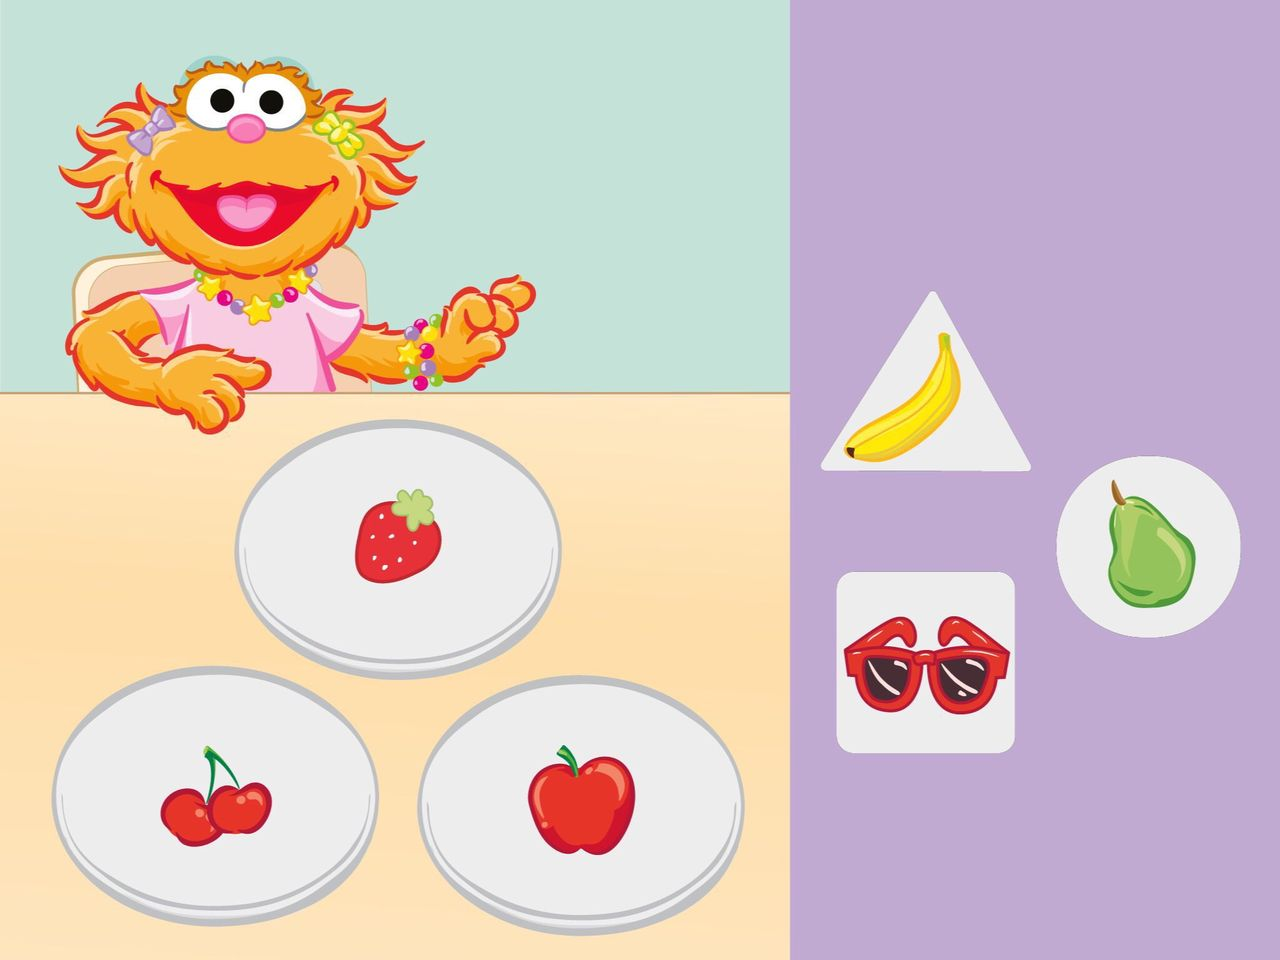
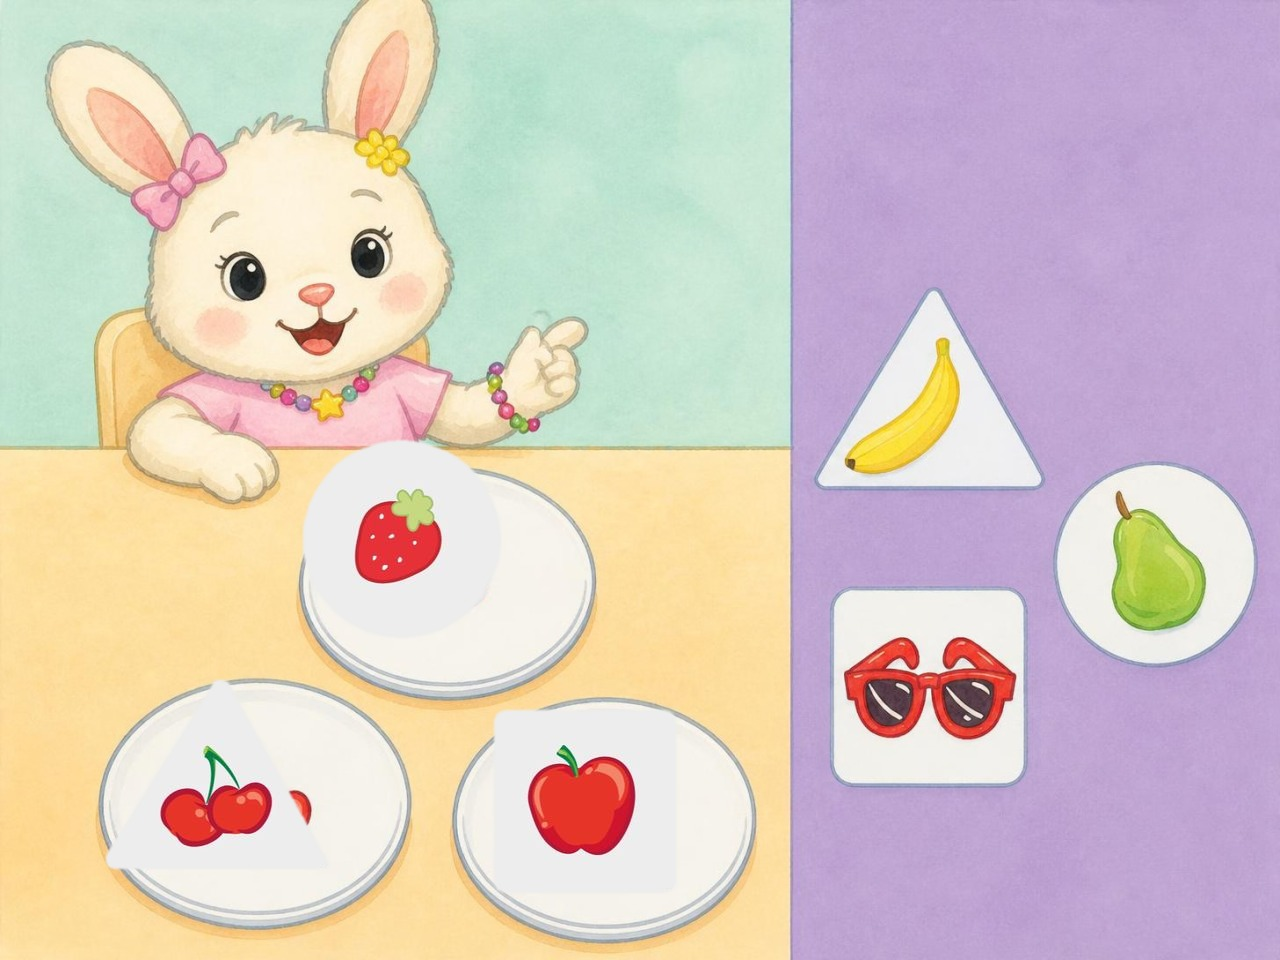
Sesame Street characters replaced in 'דרכים נוספות למיין' (6 slides)

diff --git a/games/g4l5d/index.html b/games/g4l5d/index.html
@@ -157,7 +157,7 @@ body.framed #app .top .brand{display:none}
 </script>
 <script>
 /*CFGLINE*/
-const CFG = {"slides": [{"i": 0, "t": "R", "img": "img/s0.jpg?b=4", "acts": [{"intro": "aud/photo1__activity0__activity0.mp3", "advance": true, "idle": null, "shapes": []}], "layers": [{"t": "bg", "src": "lay/s0_0.jpg?b=4", "w": 2048, "h": 1536, "m": [1, 0, 0, 1, 0, 0], "show": 0, "tog": false}]}, {"i": 1, "t": "A", "img": "img/s1.jpg?b=4", "acts": [{"intro": "aud/photo2__activity0__activity0.mp3", "advance": false, "idle": null, "shapes": [{"d": "M 927.3 610.7 C 927.3 656.5 871.7 693.7 803.0 693.7 C 734.3 693.7 678.7 656.5 678.7 610.7 C 678.7 564.8 734.3 527.7 803.0 527.7 C 871.7 527.7 927.3 564.8 927.3 610.7 Z", "bb": [679, 528, 927, 694], "r1": null, "r2": null, "ans": [], "link": null, "tx": 0, "ty": 0, "idle": null}, {"d": "M 617.2 185.4 C 617.2 231.3 561.5 268.5 492.9 268.5 C 424.2 268.5 368.5 231.3 368.5 185.4 C 368.5 139.6 424.2 102.4 492.9 102.4 C 561.5 102.4 617.2 139.6 617.2 185.4 Z", "bb": [369, 102, 617, 268], "r1": null, "r2": null, "ans": [], "link": null, "tx": 0, "ty": 0, "idle": null}, {"d": "M 612.7 615.6 C 612.7 661.4 557.0 698.6 488.4 698.6 C 419.7 698.6 364.0 661.4 364.0 615.6 C 364.0 569.7 419.7 532.5 488.4 532.5 C 557.0 532.5 612.7 569.7 612.7 615.6 Z", "bb": [364, 533, 613, 699], "r1": null, "r2": null, "ans": [], "link": null, "tx": 0, "ty": 0, "idle": null}]}]}, {"i": 2, "t": "A", "img": "img/s2.jpg?b=4", "acts": [{"intro": "aud/photo3__activity0__activity0.mp3", "advance": false, "idle": null, "shapes": [{"d": "M 643.8 334.8 C 643.8 411.5 604.7 473.7 556.4 473.7 C 508.2 473.7 469.1 411.5 469.1 334.8 C 469.1 258.1 508.2 196.0 556.4 196.0 C 604.7 196.0 643.8 258.1 643.8 334.8 Z", "bb": [469, 196, 644, 474], "r1": null, "r2": null, "ans": [], "link": null, "tx": 0, "ty": 0, "idle": null}, {"d": "M 242.9 231.4 C 242.9 312.3 203.8 377.9 155.6 377.9 C 107.3 377.9 68.2 312.3 68.2 231.4 C 68.2 150.5 107.3 84.9 155.6 84.9 C 203.8 84.9 242.9 150.5 242.9 231.4 Z", "bb": [68, 85, 243, 378], "r1": null, "r2": null, "ans": [], "link": null, "tx": 0, "ty": 0, "idle": null}, {"d": "M 432.6 502.8 C 432.6 579.5 393.5 641.7 345.3 641.7 C 297.1 641.7 258.0 579.5 258.0 502.8 C 258.0 426.1 297.1 364.0 345.3 364.0 C 393.5 364.0 432.6 426.1 432.6 502.8 Z", "bb": [258, 364, 433, 642], "r1": null, "r2": null, "ans": [], "link": null, "tx": 0, "ty": 0, "idle": null}]}]}, {"i": 3, "t": "A", "img": "img/s3.jpg?b=4", "acts": [{"intro": "aud/photo4__activity0__activity0.mp3", "advance": false, "idle": null, "shapes": [{"d": "M 988.8 601.8 C 988.8 673.4 907.6 731.4 807.5 731.4 C 707.4 731.4 626.2 673.4 626.2 601.8 C 626.2 530.2 707.4 472.1 807.5 472.1 C 907.6 472.1 988.8 530.2 988.8 601.8 Z", "bb": [626, 472, 989, 731], "r1": null, "r2": null, "ans": [], "link": null, "tx": 0, "ty": 0, "idle": null}, {"d": "M 967.4 219.4 L 967.4 392.3 C 967.4 396.2 964.2 399.3 960.4 399.3 L 672.6 399.3 C 668.8 399.3 665.6 396.2 665.6 392.3 L 665.6 46.5 C 665.6 42.6 668.8 39.5 672.6 39.5 L 960.4 39.5 C 964.2 39.5 967.4 42.6 967.4 46.5 Z", "bb": [666, 39, 967, 399], "r1": null, "r2": null, "ans": [], "link": null, "tx": 0, "ty": 0, "idle": null}, {"d": "M 397.9 224.4 C 397.9 323.9 315.7 404.5 214.2 404.5 C 112.8 404.5 30.6 323.9 30.6 224.4 C 30.6 125.0 112.8 44.3 214.2 44.3 C 315.7 44.3 397.9 125.0 397.9 224.4 Z", "bb": [31, 44, 398, 405], "r1": null, "r2": null, "ans": [], "link": null, "tx": 0, "ty": 0, "idle": null}]}]}, {"i": 4, "t": "P", "img": "img/s4.jpg?b=4", "acts": [{"intro": "aud/photo5__activity0__activity0.mp3", "advance": false, "idle": null, "shapes": [{"d": "M 396.4 431.0 C 396.4 472.7 362.6 506.5 320.9 506.5 C 279.2 506.5 245.4 472.7 245.4 431.0 C 245.4 389.3 279.2 355.5 320.9 355.5 C 362.6 355.5 396.4 389.3 396.4 431.0 Z", "bb": [245, 356, 396, 507], "r1": null, "r2": null, "ans": [], "link": null, "tx": 422.4, "ty": -312.6, "idle": null}, {"d": "M 537.1 640.7 L 537.1 703.2 C 537.1 707.1 534.0 710.2 530.1 710.2 L 405.0 710.2 C 401.1 710.2 398.0 707.1 398.0 703.2 L 398.0 578.2 C 398.0 574.3 401.1 571.2 405.0 571.2 L 530.1 571.2 C 534.0 571.2 537.1 574.3 537.1 578.2 Z", "bb": [398, 571, 537, 710], "r1": null, "r2": null, "ans": [], "link": null, "tx": 446.5, "ty": -408, "idle": null}, {"d": "M 259.6 691.1 L 179.7 548.9 C 178.6 547.0 176.2 546.3 174.2 547.4 C 173.7 547.7 173.2 548.2 172.8 548.8 L 88.3 685.0 C 87.1 686.9 87.7 689.4 89.6 690.5 C 90.2 690.9 90.9 691.1 91.7 691.1 L 252.8 691.1 C 255.0 691.1 256.8 689.3 256.8 687.1 C 256.8 686.4 256.6 685.8 256.3 685.2 Z", "bb": [87, 546, 260, 691], "r1": null, "r2": null, "ans": [], "link": null, "tx": 728.2, "ty": 20.6, "idle": null}]}]}, {"i": 5, "t": "A", "img": "img/s5.jpg?b=4", "acts": [{"intro": "aud/photo6__activity0__activity0.mp3", "advance": false, "idle": null, "shapes": [{"d": "M 356.5 213.9 C 356.5 288.7 295.8 349.4 221.0 349.4 C 146.2 349.4 85.5 288.7 85.5 213.9 C 85.5 139.0 146.2 78.4 221.0 78.4 C 295.8 78.4 356.5 139.0 356.5 213.9 Z", "bb": [85, 78, 356, 349], "r1": null, "r2": null, "ans": [], "link": null, "tx": 0, "ty": 0, "idle": null}, {"d": "M 798.8 205.6 C 798.8 258.4 756.1 301.1 703.3 301.1 C 650.6 301.1 607.8 258.4 607.8 205.6 C 607.8 152.9 650.6 110.1 703.3 110.1 C 756.1 110.1 798.8 152.9 798.8 205.6 Z", "bb": [608, 110, 799, 301], "r1": null, "r2": null, "ans": [], "link": null, "tx": 0, "ty": 0, "idle": null}, {"d": "M 648.7 561.3 C 648.7 625.1 596.9 676.8 533.2 676.8 C 469.4 676.8 417.7 625.1 417.7 561.3 C 417.7 497.5 469.4 445.8 533.2 445.8 C 596.9 445.8 648.7 497.5 648.7 561.3 Z", "bb": [418, 446, 649, 677], "r1": null, "r2": null, "ans": [], "link": null, "tx": 0, "ty": 0, "idle": null}]}]}, {"i": 6, "t": "P", "img": "img/s6.jpg?b=4", "acts": [{"intro": "aud/photo7__activity0__activity0.mp3", "advance": false, "idle": null, "shapes": [{"d": "M 561.0 382.3 C 561.0 424.0 527.2 457.8 485.5 457.8 C 443.8 457.8 410.0 424.0 410.0 382.3 C 410.0 340.6 443.8 306.8 485.5 306.8 C 527.2 306.8 561.0 340.6 561.0 382.3 Z", "bb": [410, 307, 561, 458], "r1": null, "r2": null, "ans": [], "link": null, "tx": 429.4, "ty": -284.9, "idle": null}, {"d": "M 555.1 572.1 L 555.1 634.6 C 555.1 638.5 552.0 641.6 548.1 641.6 L 423.0 641.6 C 419.1 641.6 416.0 638.5 416.0 634.6 L 416.0 509.5 C 416.0 505.7 419.1 502.5 423.0 502.5 L 548.1 502.5 C 552.0 502.5 555.1 505.7 555.1 509.5 Z", "bb": [416, 503, 555, 642], "r1": null, "r2": null, "ans": [], "link": null, "tx": 253.4, "ty": -310.8, "idle": null}, {"d": "M 402.1 268.1 L 564.3 268.1 C 566.6 268.1 568.3 266.3 568.3 264.1 C 568.3 263.4 568.2 262.7 567.8 262.1 L 490.0 126.4 C 488.9 124.5 486.4 123.9 484.5 125.0 C 483.9 125.3 483.4 125.8 483.0 126.4 L 405.5 262.1 C 404.4 264.1 405.1 266.5 407.0 267.6 C 407.6 267.9 408.3 268.1 409.0 268.1 Z", "bb": [402, 124, 568, 268], "r1": null, "r2": null, "ans": [], "link": null, "tx": 264.3, "ty": 463.6, "idle": null}]}]}, {"i": 7, "t": "R", "img": "img/s7.jpg?b=4", "acts": [{"intro": "aud/photo8__activity0__activity0.mp3", "advance": true, "idle": null, "shapes": []}], "layers": [{"t": "bg", "src": "lay/s7_0.jpg?b=4", "w": 2048, "h": 1536, "m": [1, 0, 0, 1, 0, 0], "show": 0, "tog": false}]}], "title": "דרכים נוספות למיין", "hash": "g4l5d", "brand": "חן קלימיאן", "writeBase": "../../letters/"};
+const CFG = {"slides": [{"i": 0, "t": "R", "img": "img/s0.jpg?b=4", "acts": [{"intro": "aud/photo1__activity0__activity0.mp3", "advance": true, "idle": null, "shapes": []}], "layers": [{"t": "bg", "src": "lay/s0_0.jpg?b=4", "w": 2048, "h": 1536, "m": [1, 0, 0, 1, 0, 0], "show": 0, "tog": false}]}, {"i": 1, "t": "A", "img": "img/s1.jpg?b=5", "acts": [{"intro": "aud/photo2__activity0__activity0.mp3", "advance": false, "idle": null, "shapes": [{"d": "M 927.3 610.7 C 927.3 656.5 871.7 693.7 803.0 693.7 C 734.3 693.7 678.7 656.5 678.7 610.7 C 678.7 564.8 734.3 527.7 803.0 527.7 C 871.7 527.7 927.3 564.8 927.3 610.7 Z", "bb": [679, 528, 927, 694], "r1": null, "r2": null, "ans": [], "link": null, "tx": 0, "ty": 0, "idle": null}, {"d": "M 617.2 185.4 C 617.2 231.3 561.5 268.5 492.9 268.5 C 424.2 268.5 368.5 231.3 368.5 185.4 C 368.5 139.6 424.2 102.4 492.9 102.4 C 561.5 102.4 617.2 139.6 617.2 185.4 Z", "bb": [369, 102, 617, 268], "r1": null, "r2": null, "ans": [], "link": null, "tx": 0, "ty": 0, "idle": null}, {"d": "M 612.7 615.6 C 612.7 661.4 557.0 698.6 488.4 698.6 C 419.7 698.6 364.0 661.4 364.0 615.6 C 364.0 569.7 419.7 532.5 488.4 532.5 C 557.0 532.5 612.7 569.7 612.7 615.6 Z", "bb": [364, 533, 613, 699], "r1": null, "r2": null, "ans": [], "link": null, "tx": 0, "ty": 0, "idle": null}]}]}, {"i": 2, "t": "A", "img": "img/s2.jpg?b=5", "acts": [{"intro": "aud/photo3__activity0__activity0.mp3", "advance": false, "idle": null, "shapes": [{"d": "M 643.8 334.8 C 643.8 411.5 604.7 473.7 556.4 473.7 C 508.2 473.7 469.1 411.5 469.1 334.8 C 469.1 258.1 508.2 196.0 556.4 196.0 C 604.7 196.0 643.8 258.1 643.8 334.8 Z", "bb": [469, 196, 644, 474], "r1": null, "r2": null, "ans": [], "link": null, "tx": 0, "ty": 0, "idle": null}, {"d": "M 242.9 231.4 C 242.9 312.3 203.8 377.9 155.6 377.9 C 107.3 377.9 68.2 312.3 68.2 231.4 C 68.2 150.5 107.3 84.9 155.6 84.9 C 203.8 84.9 242.9 150.5 242.9 231.4 Z", "bb": [68, 85, 243, 378], "r1": null, "r2": null, "ans": [], "link": null, "tx": 0, "ty": 0, "idle": null}, {"d": "M 432.6 502.8 C 432.6 579.5 393.5 641.7 345.3 641.7 C 297.1 641.7 258.0 579.5 258.0 502.8 C 258.0 426.1 297.1 364.0 345.3 364.0 C 393.5 364.0 432.6 426.1 432.6 502.8 Z", "bb": [258, 364, 433, 642], "r1": null, "r2": null, "ans": [], "link": null, "tx": 0, "ty": 0, "idle": null}]}]}, {"i": 3, "t": "A", "img": "img/s3.jpg?b=5", "acts": [{"intro": "aud/photo4__activity0__activity0.mp3", "advance": false, "idle": null, "shapes": [{"d": "M 988.8 601.8 C 988.8 673.4 907.6 731.4 807.5 731.4 C 707.4 731.4 626.2 673.4 626.2 601.8 C 626.2 530.2 707.4 472.1 807.5 472.1 C 907.6 472.1 988.8 530.2 988.8 601.8 Z", "bb": [626, 472, 989, 731], "r1": null, "r2": null, "ans": [], "link": null, "tx": 0, "ty": 0, "idle": null}, {"d": "M 967.4 219.4 L 967.4 392.3 C 967.4 396.2 964.2 399.3 960.4 399.3 L 672.6 399.3 C 668.8 399.3 665.6 396.2 665.6 392.3 L 665.6 46.5 C 665.6 42.6 668.8 39.5 672.6 39.5 L 960.4 39.5 C 964.2 39.5 967.4 42.6 967.4 46.5 Z", "bb": [666, 39, 967, 399], "r1": null, "r2": null, "ans": [], "link": null, "tx": 0, "ty": 0, "idle": null}, {"d": "M 397.9 224.4 C 397.9 323.9 315.7 404.5 214.2 404.5 C 112.8 404.5 30.6 323.9 30.6 224.4 C 30.6 125.0 112.8 44.3 214.2 44.3 C 315.7 44.3 397.9 125.0 397.9 224.4 Z", "bb": [31, 44, 398, 405], "r1": null, "r2": null, "ans": [], "link": null, "tx": 0, "ty": 0, "idle": null}]}]}, {"i": 4, "t": "P", "img": "img/s4.jpg?b=5", "acts": [{"intro": "aud/photo5__activity0__activity0.mp3", "advance": false, "idle": null, "shapes": [{"d": "M 396.4 431.0 C 396.4 472.7 362.6 506.5 320.9 506.5 C 279.2 506.5 245.4 472.7 245.4 431.0 C 245.4 389.3 279.2 355.5 320.9 355.5 C 362.6 355.5 396.4 389.3 396.4 431.0 Z", "bb": [245, 356, 396, 507], "r1": null, "r2": null, "ans": [], "link": null, "tx": 422.4, "ty": -312.6, "idle": null}, {"d": "M 537.1 640.7 L 537.1 703.2 C 537.1 707.1 534.0 710.2 530.1 710.2 L 405.0 710.2 C 401.1 710.2 398.0 707.1 398.0 703.2 L 398.0 578.2 C 398.0 574.3 401.1 571.2 405.0 571.2 L 530.1 571.2 C 534.0 571.2 537.1 574.3 537.1 578.2 Z", "bb": [398, 571, 537, 710], "r1": null, "r2": null, "ans": [], "link": null, "tx": 446.5, "ty": -408, "idle": null}, {"d": "M 259.6 691.1 L 179.7 548.9 C 178.6 547.0 176.2 546.3 174.2 547.4 C 173.7 547.7 173.2 548.2 172.8 548.8 L 88.3 685.0 C 87.1 686.9 87.7 689.4 89.6 690.5 C 90.2 690.9 90.9 691.1 91.7 691.1 L 252.8 691.1 C 255.0 691.1 256.8 689.3 256.8 687.1 C 256.8 686.4 256.6 685.8 256.3 685.2 Z", "bb": [87, 546, 260, 691], "r1": null, "r2": null, "ans": [], "link": null, "tx": 728.2, "ty": 20.6, "idle": null}]}]}, {"i": 5, "t": "A", "img": "img/s5.jpg?b=5", "acts": [{"intro": "aud/photo6__activity0__activity0.mp3", "advance": false, "idle": null, "shapes": [{"d": "M 356.5 213.9 C 356.5 288.7 295.8 349.4 221.0 349.4 C 146.2 349.4 85.5 288.7 85.5 213.9 C 85.5 139.0 146.2 78.4 221.0 78.4 C 295.8 78.4 356.5 139.0 356.5 213.9 Z", "bb": [85, 78, 356, 349], "r1": null, "r2": null, "ans": [], "link": null, "tx": 0, "ty": 0, "idle": null}, {"d": "M 798.8 205.6 C 798.8 258.4 756.1 301.1 703.3 301.1 C 650.6 301.1 607.8 258.4 607.8 205.6 C 607.8 152.9 650.6 110.1 703.3 110.1 C 756.1 110.1 798.8 152.9 798.8 205.6 Z", "bb": [608, 110, 799, 301], "r1": null, "r2": null, "ans": [], "link": null, "tx": 0, "ty": 0, "idle": null}, {"d": "M 648.7 561.3 C 648.7 625.1 596.9 676.8 533.2 676.8 C 469.4 676.8 417.7 625.1 417.7 561.3 C 417.7 497.5 469.4 445.8 533.2 445.8 C 596.9 445.8 648.7 497.5 648.7 561.3 Z", "bb": [418, 446, 649, 677], "r1": null, "r2": null, "ans": [], "link": null, "tx": 0, "ty": 0, "idle": null}]}]}, {"i": 6, "t": "P", "img": "img/s6.jpg?b=5", "acts": [{"intro": "aud/photo7__activity0__activity0.mp3", "advance": false, "idle": null, "shapes": [{"d": "M 561.0 382.3 C 561.0 424.0 527.2 457.8 485.5 457.8 C 443.8 457.8 410.0 424.0 410.0 382.3 C 410.0 340.6 443.8 306.8 485.5 306.8 C 527.2 306.8 561.0 340.6 561.0 382.3 Z", "bb": [410, 307, 561, 458], "r1": null, "r2": null, "ans": [], "link": null, "tx": 429.4, "ty": -284.9, "idle": null}, {"d": "M 555.1 572.1 L 555.1 634.6 C 555.1 638.5 552.0 641.6 548.1 641.6 L 423.0 641.6 C 419.1 641.6 416.0 638.5 416.0 634.6 L 416.0 509.5 C 416.0 505.7 419.1 502.5 423.0 502.5 L 548.1 502.5 C 552.0 502.5 555.1 505.7 555.1 509.5 Z", "bb": [416, 503, 555, 642], "r1": null, "r2": null, "ans": [], "link": null, "tx": 253.4, "ty": -310.8, "idle": null}, {"d": "M 402.1 268.1 L 564.3 268.1 C 566.6 268.1 568.3 266.3 568.3 264.1 C 568.3 263.4 568.2 262.7 567.8 262.1 L 490.0 126.4 C 488.9 124.5 486.4 123.9 484.5 125.0 C 483.9 125.3 483.4 125.8 483.0 126.4 L 405.5 262.1 C 404.4 264.1 405.1 266.5 407.0 267.6 C 407.6 267.9 408.3 268.1 409.0 268.1 Z", "bb": [402, 124, 568, 268], "r1": null, "r2": null, "ans": [], "link": null, "tx": 264.3, "ty": 463.6, "idle": null}]}]}, {"i": 7, "t": "R", "img": "img/s7.jpg?b=4", "acts": [{"intro": "aud/photo8__activity0__activity0.mp3", "advance": true, "idle": null, "shapes": []}], "layers": [{"t": "bg", "src": "lay/s7_0.jpg?b=4", "w": 2048, "h": 1536, "m": [1, 0, 0, 1, 0, 0], "show": 0, "tog": false}]}], "title": "דרכים נוספות למיין", "hash": "g4l5d", "brand": "חן קלימיאן", "writeBase": "../../letters/"};
 const SL = CFG.slides, LAST = SL.length - 1;
 const NS = 'http://www.w3.org/2000/svg';
 const $ = id => document.getElementById(id);
